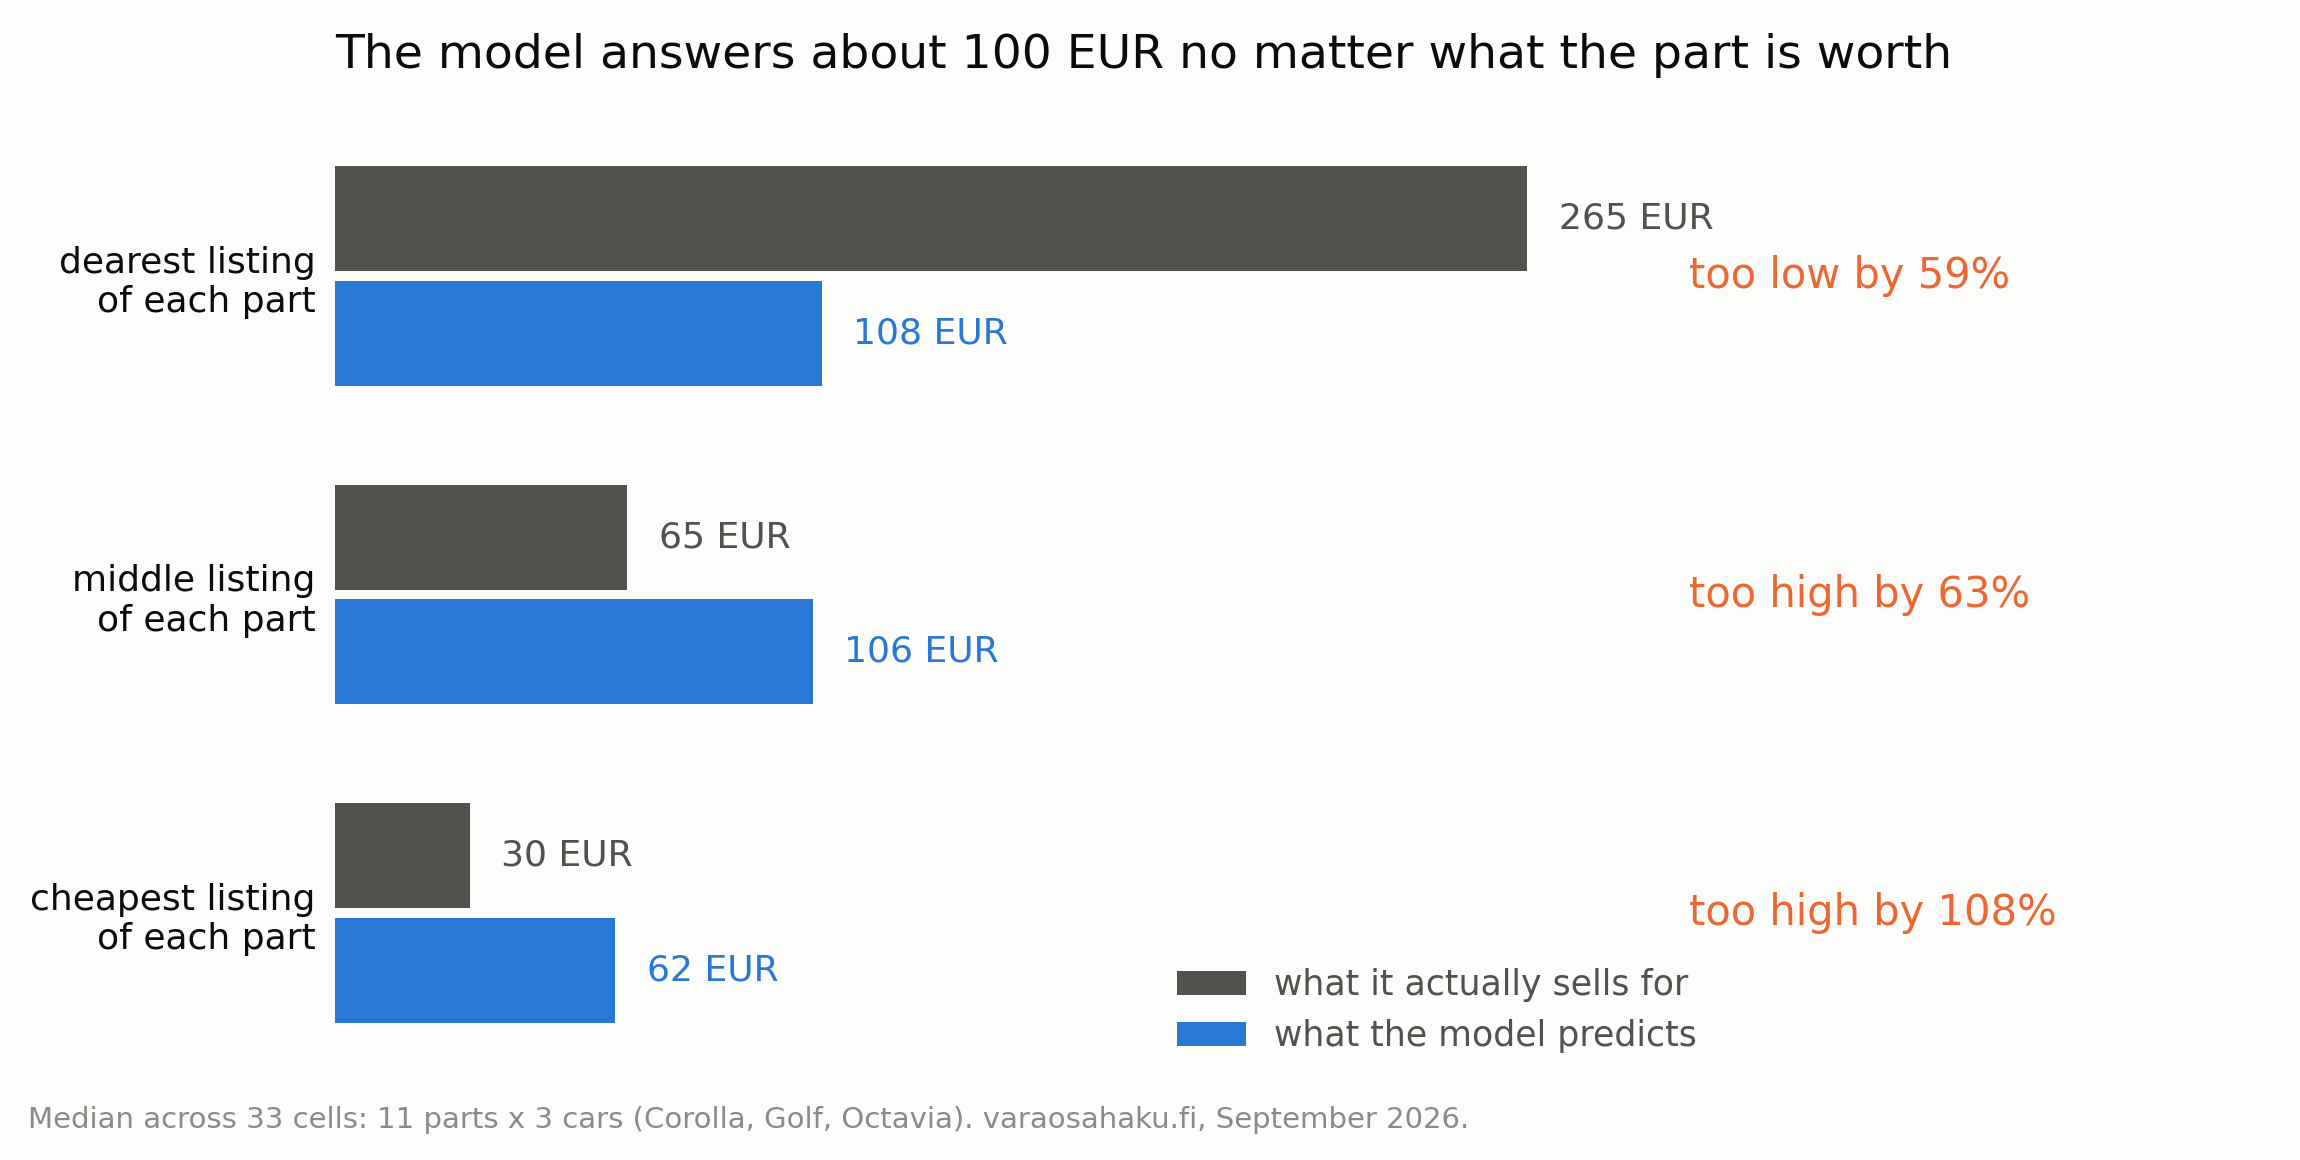
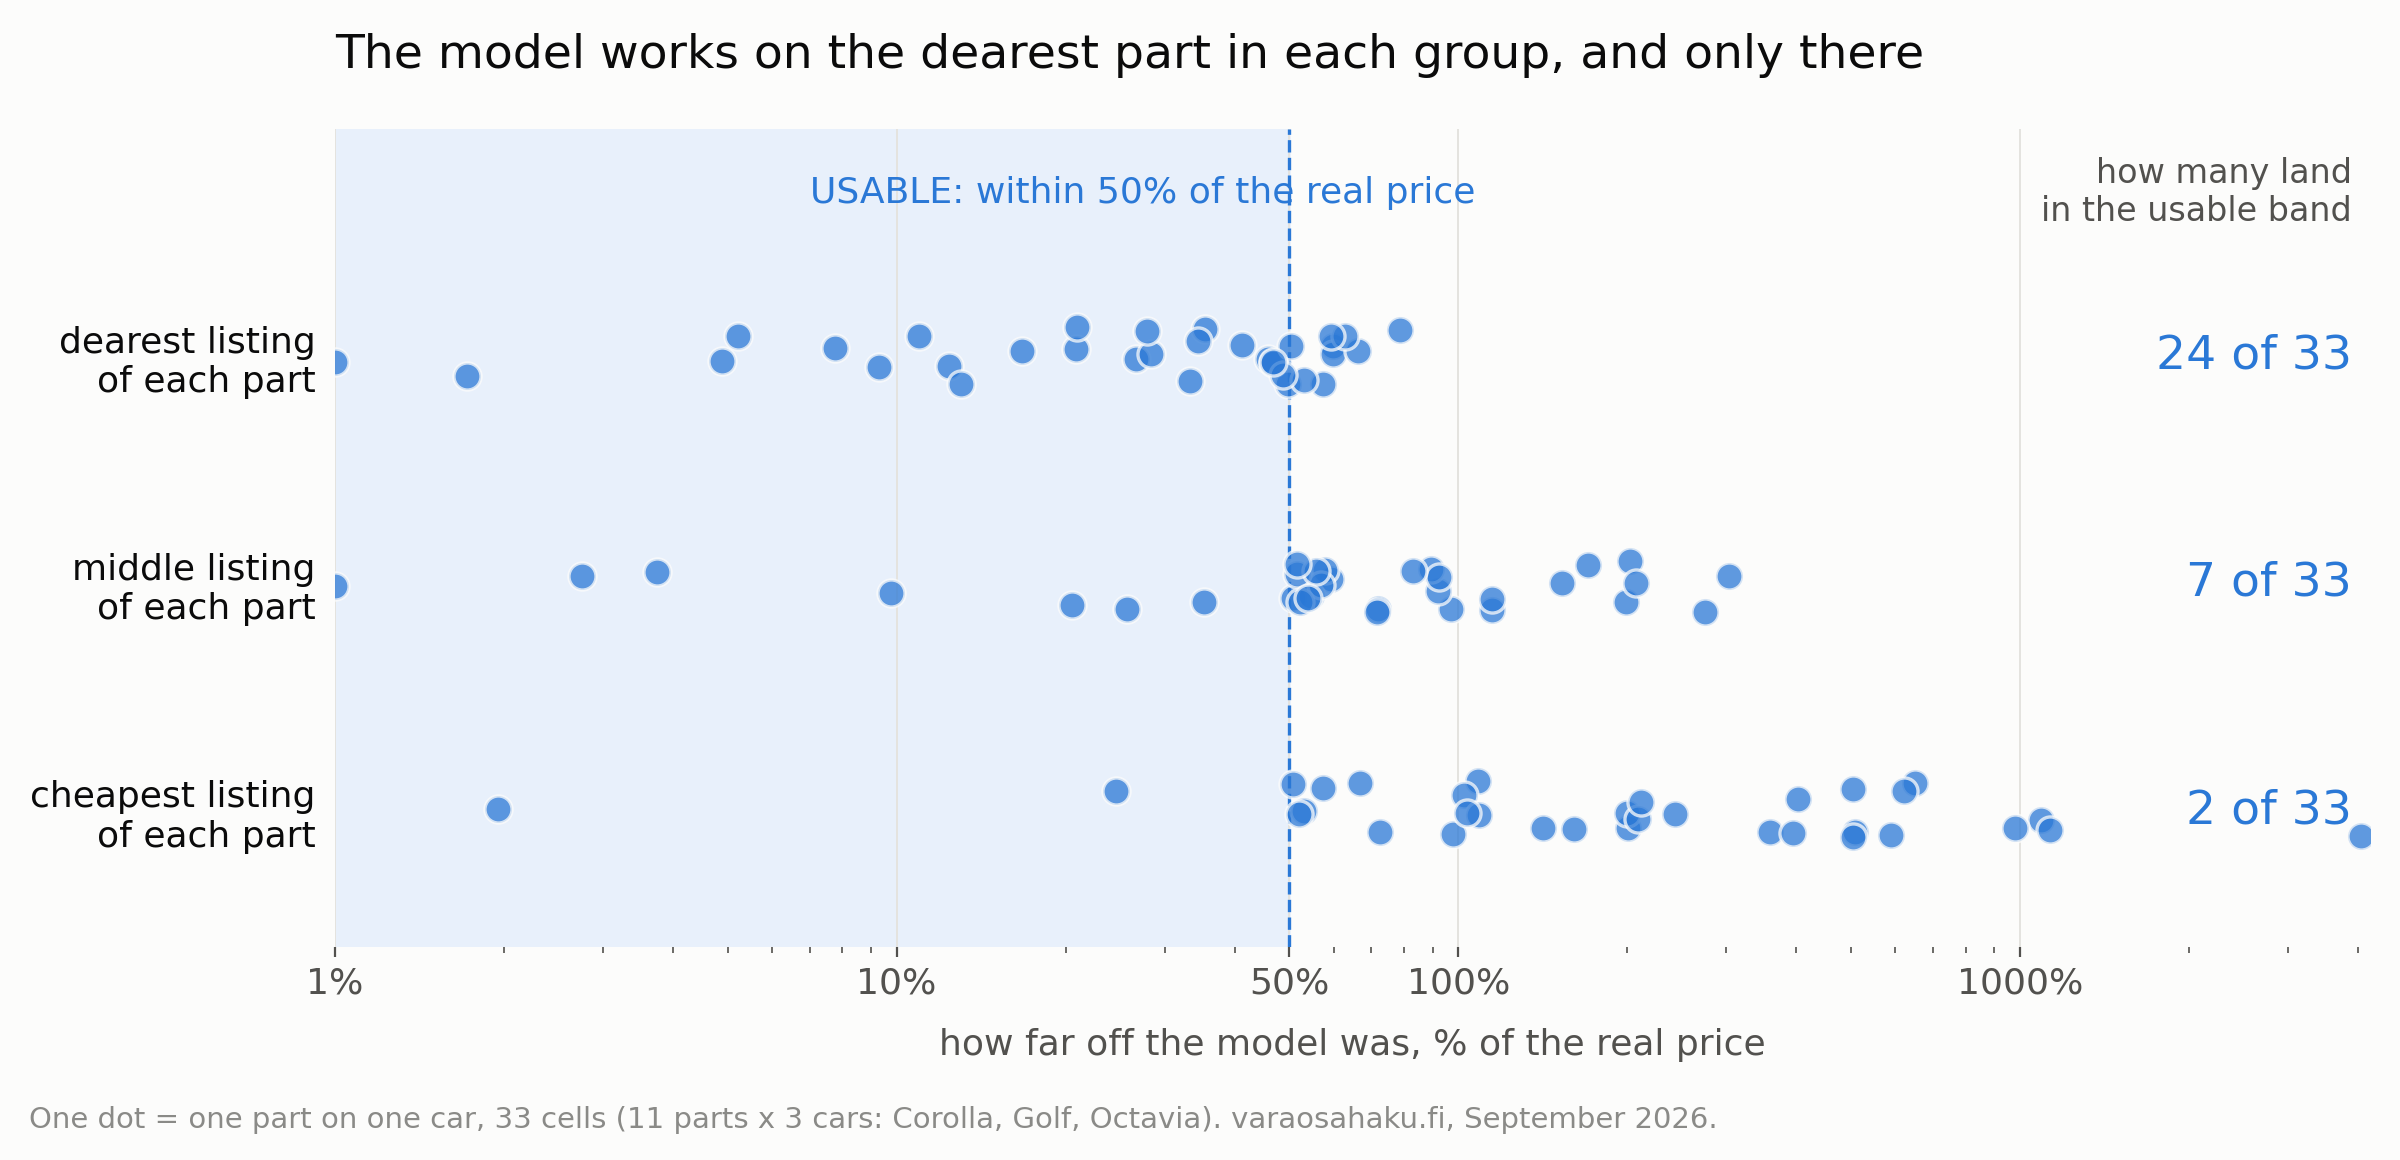
Show per-cell error spread and the usable band

diff --git a/scripts/plot_september_validation.py b/scripts/plot_september_validation.py
@@ -101,69 +101,75 @@ def three_per_cell(listings):
 
 def main():
     drawn = three_per_cell(scored_listings())
-    actual = [drawn[drawn.tier == t].price.median() for t in TIERS]
-    predicted = [drawn[drawn.tier == t].predicted.median() for t in TIERS]
-    gap = [(p - a) / a * 100 for a, p in zip(actual, predicted)]
 
     plt.rcParams.update(
         {
             "font.family": "DejaVu Sans",
             "text.color": INK,
             "ytick.color": INK,
+            "xtick.color": INK2,
             "figure.facecolor": SURFACE,
             "axes.facecolor": SURFACE,
         }
     )
-    figure, axes = plt.subplots(figsize=(11.5, 5.8))
-    positions = np.arange(3)
-    height = 0.33
-    scale = 430  # x-room for the verdict column on the right
+    figure, axes = plt.subplots(figsize=(12, 5.8))
+    rng = np.random.default_rng(32)
 
-    axes.barh(positions - height / 2 - 0.015, actual, height, color=INK2,
-              label="what it actually sells for", zorder=3)
-    axes.barh(positions + height / 2 + 0.015, predicted, height, color=BLUE,
-              label="what the model predicts", zorder=3)
-    for row, value in zip(positions - height / 2 - 0.015, actual):
-        axes.text(value + 7, row, f"{value:,.0f} EUR", va="center", fontsize=13, color=INK2)
-    for row, value in zip(positions + height / 2 + 0.015, predicted):
-        axes.text(value + 7, row, f"{value:,.0f} EUR", va="center", fontsize=13, color=BLUE)
+    # One dot per cell, so the spread stays visible: a single median per tier
+    # hides that the dearest listings cluster tightly while the cheap tail
+    # scatters over two orders of magnitude.
+    axes.axvspan(1, 50, color="#e8f0fb", zorder=0)
+    axes.axvline(50, color=BLUE, lw=1.2, ls="--", zorder=1)
 
-    for row, difference in zip(positions, gap):
-        direction = "too high" if difference > 0 else "too low"
-        axes.text(scale * 0.70, row, f"{direction} by {abs(difference):.0f}%",
-                  va="center", fontsize=15, color=ORANGE)
+    for row, tier in enumerate(TIERS):
+        errors = drawn[drawn.tier == tier].ape_model.clip(lower=1)
+        axes.scatter(
+            errors, row + rng.uniform(-0.13, 0.13, len(errors)),
+            s=95, color=BLUE, alpha=0.75, edgecolors=SURFACE, linewidths=1.2, zorder=3,
+        )
+        axes.text(
+            3900, row, f"{(errors <= 50).sum()} of {len(errors)}",
+            va="center", ha="right", fontsize=17, color=BLUE,
+        )
 
-    axes.set_yticks(
-        positions,
-        ["dearest listing\nof each part", "middle listing\nof each part",
-         "cheapest listing\nof each part"],
-        fontsize=13,
-    )
-    axes.invert_yaxis()
-    axes.set_xlim(0, scale)
-    axes.set_xticks([])
-    axes.tick_params(left=False)
+    axes.text(7, -0.72, "USABLE: within 50% of the real price",
+              fontsize=13, color=BLUE, va="center")
+    axes.text(3900, -0.72, "how many land\nin the usable band", fontsize=12,
+              color=INK2, va="center", ha="right")
+
+    axes.set_xscale("log")
+    axes.set_xlim(1, 4200)
+    axes.set_ylim(2.6, -1.0)
+    axes.set_xticks([1, 10, 50, 100, 1000], ["1%", "10%", "50%", "100%", "1000%"],
+                    fontsize=13)
+    axes.set_yticks(range(3),
+                    ["dearest listing\nof each part", "middle listing\nof each part",
+                     "cheapest listing\nof each part"], fontsize=13)
+    axes.set_xlabel("how far off the model was, % of the real price", fontsize=13,
+                    color=INK2, labelpad=10)
+    axes.grid(True, axis="x", color=GRID, lw=0.7, zorder=0)
+    axes.set_axisbelow(True)
     for spine in axes.spines.values():
         spine.set_visible(False)
-    axes.legend(frameon=False, loc="lower right", fontsize=12.5, labelcolor=INK2,
-                bbox_to_anchor=(0.72, -0.02))
+    axes.tick_params(left=False)
 
     axes.set_title(
-        "The model answers about 100 EUR no matter what the part is worth",
-        fontsize=17, color=INK, loc="left", pad=20,
+        "The model works on the dearest part in each group, and only there",
+        fontsize=17, color=INK, loc="left", pad=22,
     )
     figure.text(
         0.012, 0.028,
-        "Median across 33 cells: 11 parts x 3 cars (Corolla, Golf, Octavia). "
+        "One dot = one part on one car, 33 cells (11 parts x 3 cars: Corolla, Golf, Octavia). "
         "varaosahaku.fi, September 2026.",
         fontsize=10.5, color=MUTED,
     )
     figure.tight_layout(rect=[0, 0.055, 1, 1])
     figure.savefig(OUT, dpi=200)
     print(f"saved {OUT}")
-    print(pd.DataFrame(
-        {"tier": TIERS, "actual": actual, "model": predicted, "gap_pct": gap}
-    ).to_string(index=False, float_format="{:,.0f}".format))
+    for tier in TIERS:
+        errors = drawn[drawn.tier == tier].ape_model
+        print(f"{tier:10s} median {errors.median():6.0f}%   within 50%: "
+              f"{(errors <= 50).sum():2d}/{len(errors)}   within 25%: {(errors <= 25).sum():2d}/{len(errors)}")
 
 
 if __name__ == "__main__":
